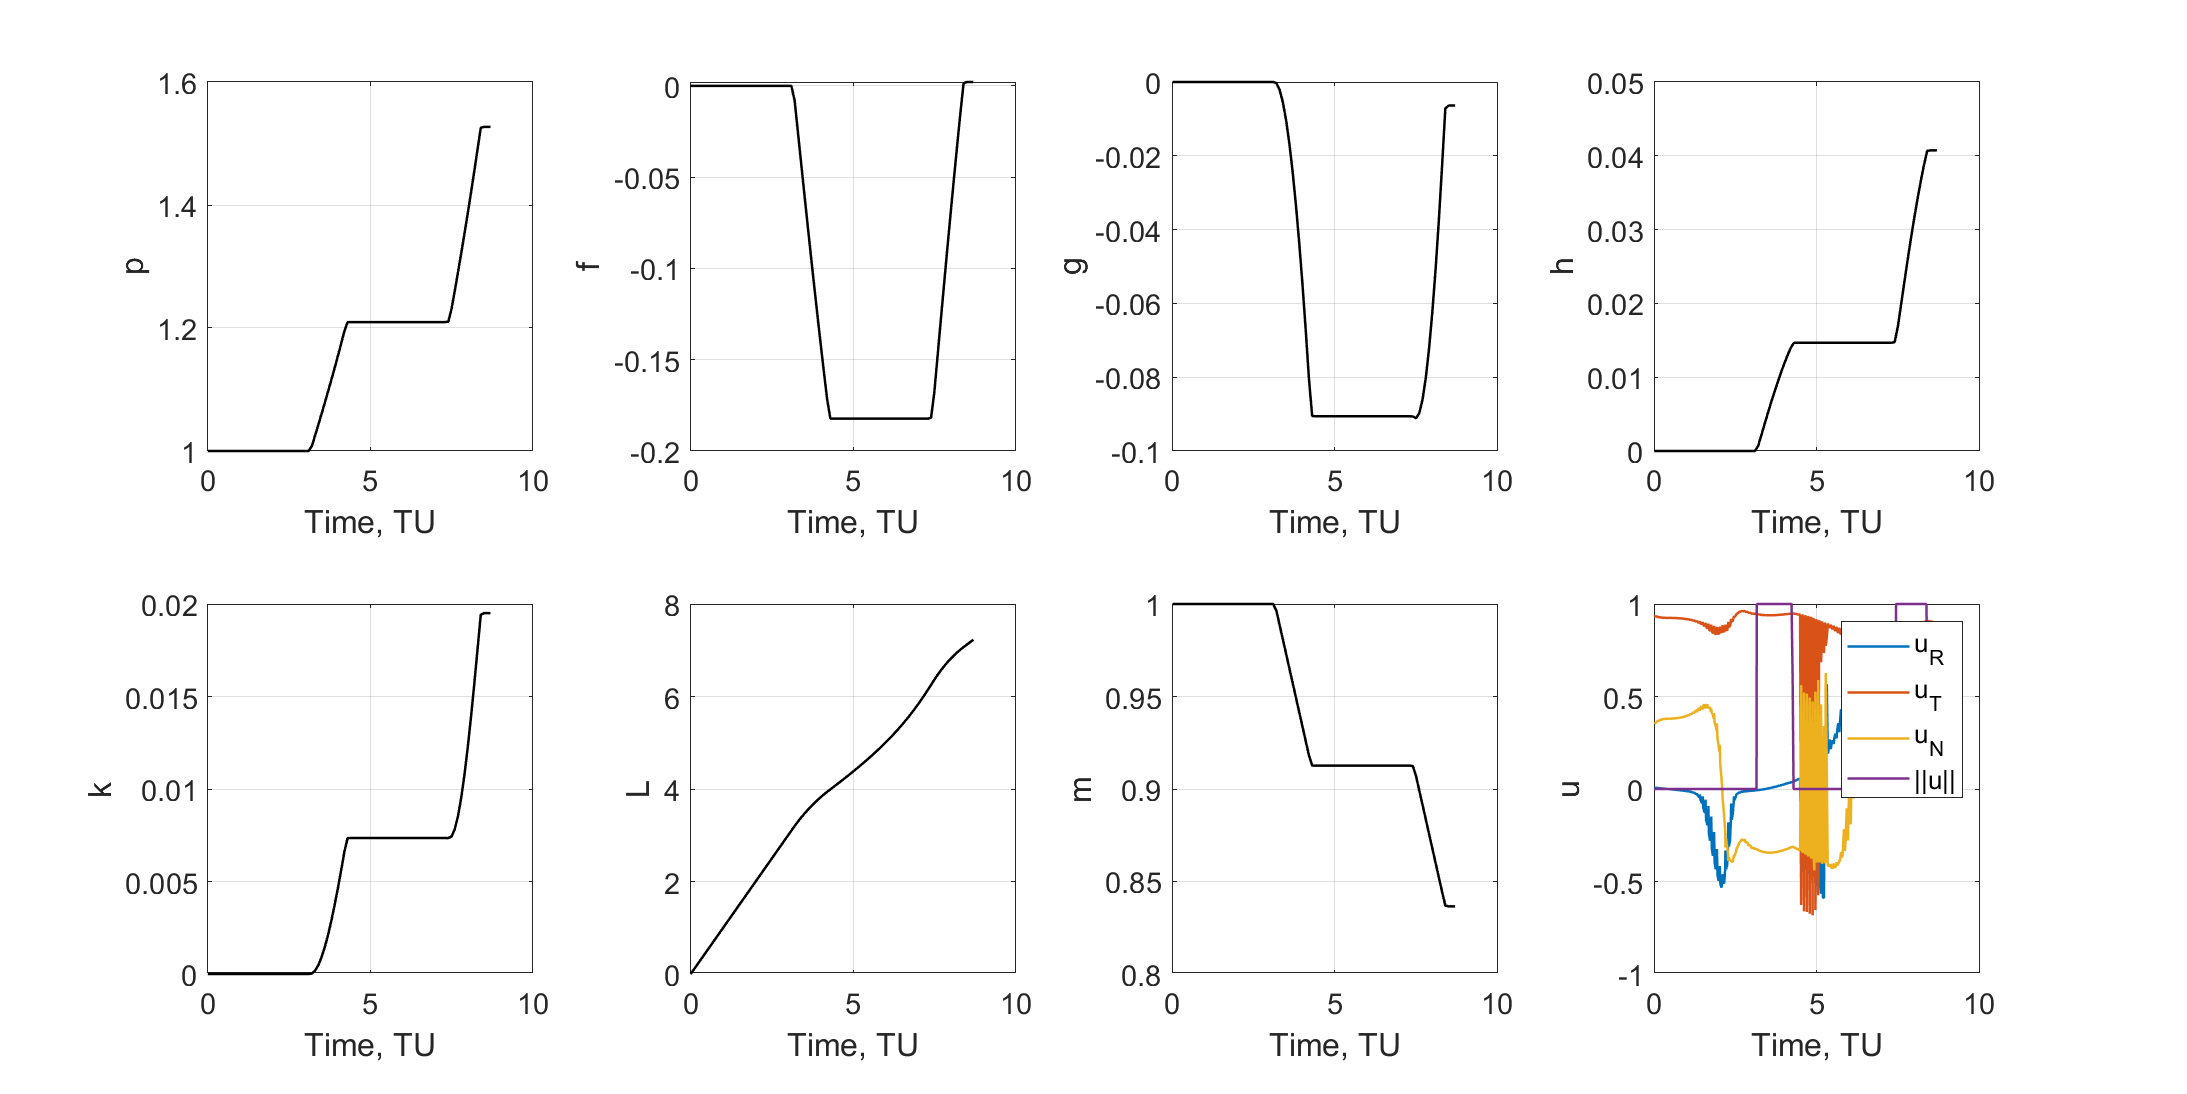
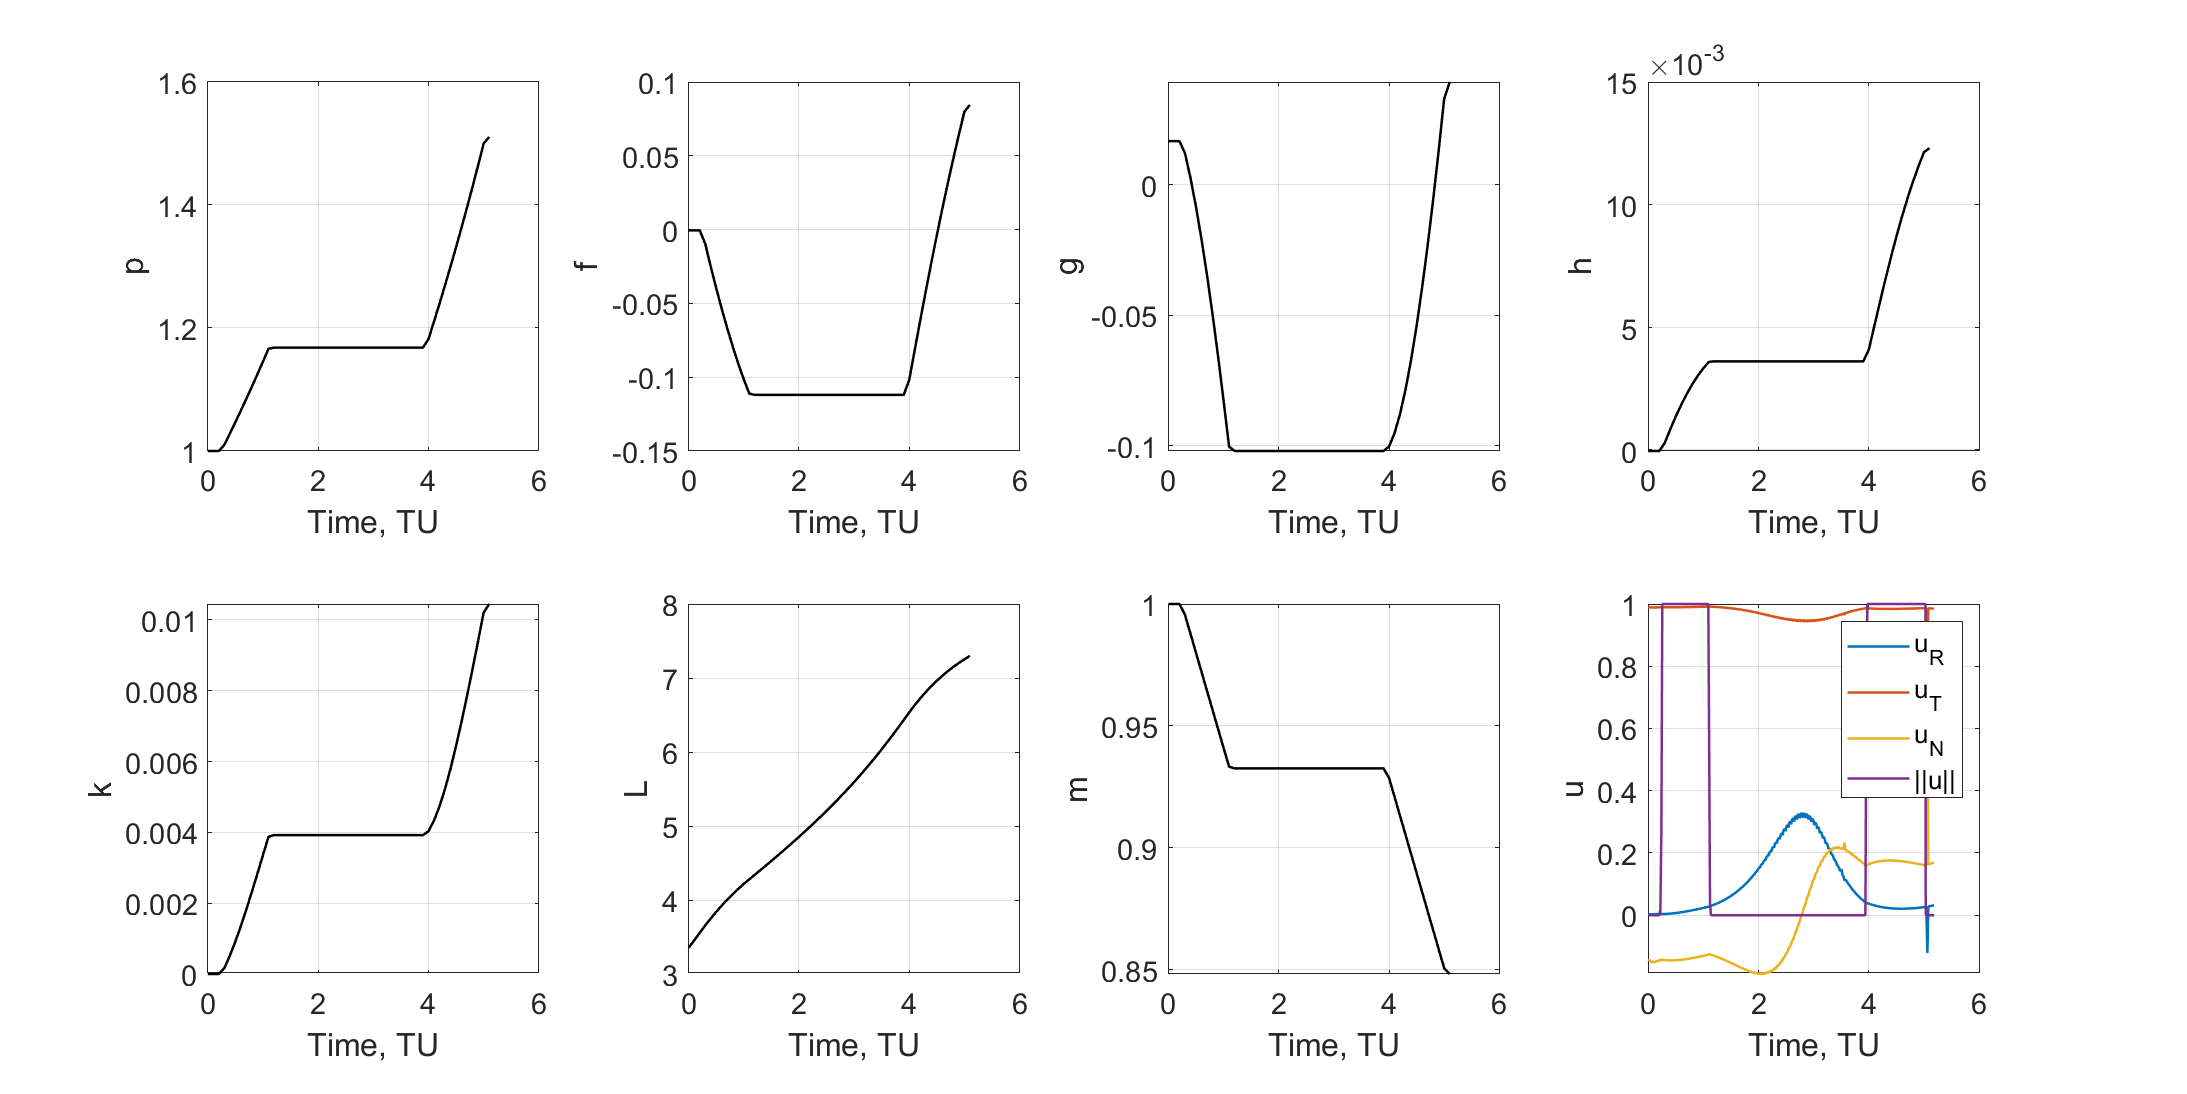
Earth to Mars example update

diff --git a/examples/MEO2GEO/main_MEO2GEO_highthrust.m b/examples/MEO2GEO/main_MEO2GEO_highthrust.m
@@ -5,43 +5,61 @@
 
 % house keeping
 clear; close all; clc;
+fontsize = 14;
 
 fPath = fileparts(matlab.desktop.editor.getActiveFilename);
 addpath(fullfile(fPath,'../../DirectMRLT/'));
 
 % define data
-GM_SUN = 1.3271244004193938E+11;
-LU = 149.6e6;
+GM_SUN = 398600.44;
+LU = 42164.0;
 MU = 1500;
-thrust = 0.8;
-mdot = thrust/(9.81 * 3500);
+thrust = 5.0;                  % in N
+mdot = thrust/(9.81 * 1500);    % in kg/s
 data = get_problem_data(GM_SUN,LU,MU,thrust,mdot);
 
-% initial and final conditions, in LU & non-dim & rad
-MEE_0 = KEP2MEE([1.00000011 0.01671022 deg2rad(0.00005) ...
-                 deg2rad(-11.26064) deg2rad(102.94719) deg2rad(100.46435)]);
-MEE_F = KEP2MEE([1.52366231 0.09341233 deg2rad(1.85061) ...
-                 deg2rad(49.57854) deg2rad(336.04084) deg2rad(355.45332)]);
+% initial and final conditions
+KEP_0 = [0.5 0.0 deg2rad(23) deg2rad(100) deg2rad(270) deg2rad(23)];
+KEP_F = [1.0 0.0 deg2rad(0)  deg2rad(102) deg2rad(34)  deg2rad(5)];
+MEE_0 = KEP2MEE(KEP_0);
+MEE_F = KEP2MEE(KEP_F);
 m0 = 1.0;                           % initial mass, in MU
 t0 = 0.0;                           % initial time, in TU
-tf_bounds = [0.5*pi 3*pi];          % bounds on TOF, in TU
-mf_bounds = [0.3 m0];               % bounds on final mass, in MU
+tf_bounds = [5*pi 25*pi];          % bounds on TOF, in TU
+mf_bounds = [0.7 m0];               % bounds on final mass, in MU
+
+% initial and final orbit
+RV_initial = MEE2RVorbit(data.GM,MEE_0);
+RV_final   = MEE2RVorbit(data.GM,MEE_F);
 
 % create problem
-objective = "mf";     % "mf" for mass-optimal or "tof" for time-optimal
+objective = "tof";     % "mf" for mass-optimal or "tof" for time-optimal
 [problem,guess] = MEEOrbitTransferProblem(...
-    data,MEE_0,MEE_F,m0,t0,tf_bounds,mf_bounds,@ICLOCSsettings_Earth2Mars, ...
-    "objective", objective,"max_rev",5);
+    data,MEE_0,MEE_F,m0,t0,tf_bounds,mf_bounds,@ICLOCSsettings_GTO2GEO_highthrust, ...
+    "objective", objective,"max_rev",25);
+RV_guess = MEE2RV(data.GM, guess.states(:,1:6));
+
+% plot initial guess
+figure('Position',[600,10,600,500]);
+plot3(RV_initial(:,1),RV_initial(:,2),RV_initial(:,3),'-g','LineWidth',1.2);
+hold on;
+plot3(RV_final(:,1),RV_final(:,2),RV_final(:,3),'-r','LineWidth',1.2);
+plot3(RV_guess(:,1),RV_guess(:,2),RV_guess(:,3),'-k','LineWidth',1.2);
+xlabel("x, LU");
+ylabel("y, LU");
+zlabel("z, LU");
+grid on; box on; axis equal;
+set(gca,'fontsize',fontsize);
+
 
 % solve problem
-% options= problem.settings(150);                  % h method
-options= problem.settings(100,4);                  % hp method
+options= problem.settings(150);                  % h method
+%options= problem.settings(100,4);                  % hp method
 [solution,MRHistory] = solveMyProblem(problem, guess, options);
 [ tv, xv, uv ] = simulateSolution( problem, solution, 'ode113', 0.1 );
 
 %% Plots
 % plot initial guess
-fontsize = 14;
 figure('Position',[100,10,1400,700]);
 tiledlayout(2,4);
 for i = 1:7
@@ -63,12 +81,10 @@ xlabel("Time, TU");
 ylabel('u');
 grid on; box on;
 set(gca,'fontsize',fontsize);
-saveas(gcf,fullfile(fPath,strcat("EarthToMars_statehistory_",objective,".png")));
+saveas(gcf,fullfile(fPath,strcat("GTO2GEO_statehistory_",objective,".png")));
 
 % solved transfer, initial and final orbit
 RV = MEE2RV(data.GM, xv(:,1:6));
-RV_initial = MEE2RVorbit(data.GM,MEE_0);
-RV_final   = MEE2RVorbit(data.GM,MEE_F);
 
 figure('Position',[600,10,600,500]);
 plot3(RV_initial(:,1),RV_initial(:,2),RV_initial(:,3),'-g','LineWidth',1.2);
@@ -80,4 +96,4 @@ ylabel("y, LU");
 zlabel("z, LU");
 grid on; box on; axis equal;
 set(gca,'fontsize',fontsize);
-saveas(gcf,fullfile(fPath,strcat("EarthToMars_trajectory_",objective,".png")));
+saveas(gcf,fullfile(fPath,strcat("GTO2GEO_trajectory_",objective,".png")));

diff --git a/examples/EarthToMars/ICLOCSsettings_Earth2Mars.m b/examples/EarthToMars/ICLOCSsettings_Earth2Mars.m
@@ -123,9 +123,8 @@ function options = ICLOCSsettings(varargin)
     % Numerical differentiation: finite differences  ('numeric')
     % Algorithmic differentiation with Adigator      ('adigator')
         % Make sure you provide the path to the Adigator directory of startupadigator.m
-    options.derivatives = 'adigator';
-    %options.adigatorPath = '../dep/adigator';
-
+    options.derivatives = 'numeric';
+    %options.adigatorPath = '../..dep/adigator';
     fPath = fileparts(matlab.desktop.editor.getActiveFilename);
     options.adigatorPath = fullfile(fPath,'../../dep/adigator/');
     
